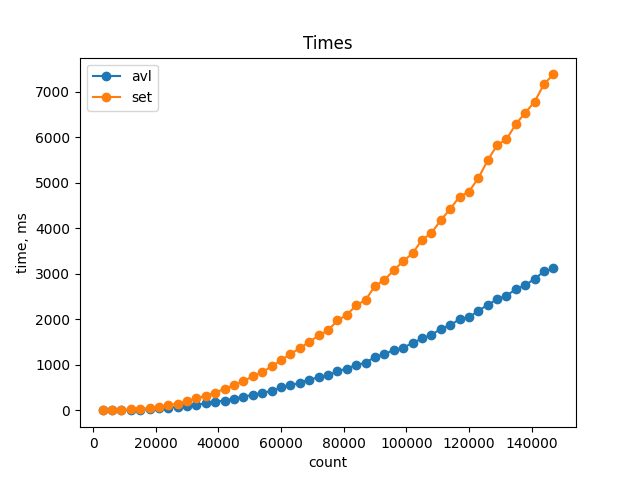
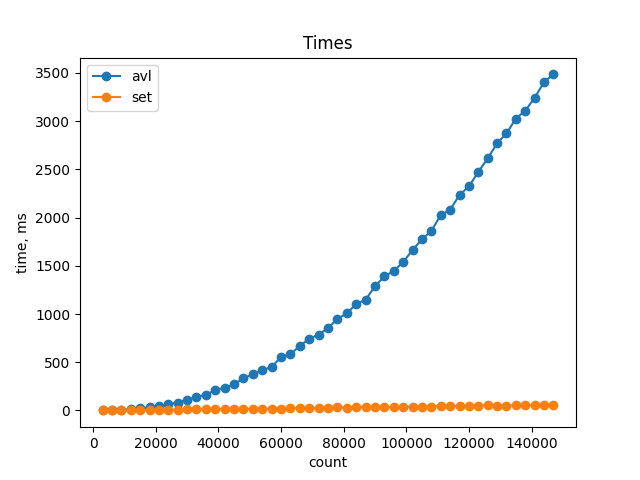
refactoring

diff --git a/include/tree.hpp b/include/tree.hpp
@@ -2,6 +2,7 @@
 #include <istream>
 #include <sstream>
 #include <typeinfo>
+#include <vector>
 
 #define CHECK_INPUT(var)                                                \
 if (!inp.good() && !inp.eof()) {                                        \
@@ -20,22 +21,22 @@ private:
         int height;
 
         Node(KeyT value) : key(value), left(nullptr), right(nullptr), height(1) {}
+
+        void updateHeight() {
+            int leftHeight = left ? left->height : 0;
+            int rightHeight = right ? right->height : 0;
+            height = 1 + std::max(leftHeight, rightHeight);
+        }
     };
 
     Node* root;
 
-    int height(Node* node) {
+    static int height(Node* node) { 
         return node ? node->height : 0;
     }
 
-    int balance(Node* node) {
+    static int balance(Node* node) {
         return node ? height(node->left) - height(node->right) : 0;
-    }
-
-    void updateHeight(Node* node) {
-        if (node) {
-            node->height = 1 + std::max(height(node->left), height(node->right));
-        }
     }
 
     Node* rightRotate(Node* y) {
@@ -45,8 +46,8 @@ private:
         x->right = y;
         y->left = T2;
 
-        updateHeight(y);
-        updateHeight(x);
+        y->updateHeight();
+        x->updateHeight();
 
         return x; 
     }
@@ -58,8 +59,8 @@ private:
         y->left = x;
         x->right = T2;
 
-        updateHeight(x);
-        updateHeight(y);
+        x->updateHeight();
+        y->updateHeight();
 
         return y; 
     }
@@ -76,7 +77,8 @@ private:
             return node;
         }
 
-        updateHeight(node);
+        // updateHeight(node);
+        node->updateHeight();
 
         int balanceFactor = balance(node);
 
@@ -101,10 +103,10 @@ private:
         return node;
     }
 
-    void inOrder(Node* node, std::ostream &out = std::cout) {
+    void inOrder(Node* node, std::vector<KeyT> &out) {
         if (node) {
             inOrder(node->left, out);
-            out << node->key << " ";
+            out.push_back(node->key);
             inOrder(node->right, out);
         }
     }
@@ -132,44 +134,48 @@ public:
         root = insert(root, key);
     }
 
-    void inOrder(std::ostream &out = std::cout) {
+    std::vector<KeyT> inOrder() {
+        std::vector<KeyT> out;
         inOrder(root, out);
+        return out;
     }
 
     int countInRange(KeyT lower, KeyT upper) const {
         return countInRange(root, lower, upper);
     }
+};
 
-    void run (std::istream &inp = std::cin, std::ostream &out = std::cout) {
+template <typename KeyT>
+void run (std::istream &inp = std::cin, std::ostream &out = std::cout) {
         
-        char command = 0;
-        while (inp >> command) {
-            CHECK_INPUT(command)
-            KeyT key, low, up;
+    AVLTree<KeyT> tree;
+    char command = 0;
+    while (inp >> command) {
+        CHECK_INPUT(command)
+        KeyT key, low, up;
 
-            switch(command) {
-                case 'k': 
-                    inp >> key;
-                    CHECK_INPUT(key)
-                    insert(key);
-                    break;
-                
-                case 'q': 
-                    inp >> low; inp >> up;
-                    CHECK_INPUT(low);
-                    if (low <= up)
-                        out << countInRange(low, up) << ' ';
-                    else 
-                        out << 0 << ' ';
-                    break;
-                
-                default:
-                    std::cerr << "Error input, need command: \"k\" or \"q\"\n";
-                    exit(-1);
-                    break;
-            }
+        switch(command) {
+            case 'k': 
+                inp >> key;
+                CHECK_INPUT(key)
+                tree.insert(key);
+                break;
+            
+            case 'q': 
+                inp >> low; inp >> up;
+                CHECK_INPUT(low);
+                if (low <= up)
+                    out << tree.countInRange(low, up) << ' ';
+                else 
+                    out << 0 << ' ';
+                break;
+            
+            default:
+                std::cerr << "Error input, need command: \"k\" or \"q\"\n";
+                exit(-1);
+                break;
         }
     }
-};
+}
 
 #undef CHECK_INPUT

diff --git a/compare/set_bench.cpp b/compare/set_bench.cpp
@@ -1,33 +1,45 @@
 #include <iostream>
 #include <set>
 #include "benchmark.hpp"
+#include <chrono>
+
+void run (std::istream &inp = std::cin);
 
 int main()
 {
-    using clock = std::chrono::high_resolution_clock;
-    std::set<int> set;
+    using clock = std::chrono::high_resolution_clock;    
+    auto time_start = clock::now();
     
-    auto time_start = clock::now().time_since_epoch().count();
-    char command;
-    while(std::cin >> command) {
-        int lower, upper, answer;
-        switch (command) {
-            case 'k':
-                std::cin >> lower;
-                set.insert(lower);
-                break;
+    run();
 
-            case 'q':
-                std::cin >> lower >> upper;
-                if (lower < upper)
-                    answer = distance(set.lower_bound(lower), set.upper_bound(upper));
-                NO_OPT(answer);
-                break;
-        }
-    }
-    auto time_end = clock::now().time_since_epoch().count();
-    long double time = (static_cast<long double>(time_end - time_start)) * NSEC_TO_SEC;
+    auto time_end = clock::now();
+    auto time = std::chrono::duration<long double>(time_end - time_start).count();
     std::cout << time << "\n";
 
     return 0;
+}
+
+void run (std::istream &inp) {
+        
+    std::set<int> set;
+    char command = 0;
+    while (inp >> command) {
+        int key, low, up;
+
+        switch(command) {
+            case 'k': 
+                inp >> key;
+                set.insert(key);
+                break;
+            
+            case 'q': 
+                inp >> low; inp >> up;
+                break;
+            
+            default:
+                std::cerr << "Error input, need command: \"k\" or \"q\"\n";
+                exit(-1);
+                break;
+        }
+    }
 }

diff --git a/compare/avl_bench.cpp b/compare/avl_bench.cpp
@@ -1,32 +1,20 @@
 #include <iostream>
 #include "tree.hpp"
 #include "benchmark.hpp"
+#include <chrono>
+#include <sstream>
 
 int main()
 {
     using clock = std::chrono::high_resolution_clock;
-    AVLTree<int> avl_tree;
     
-    auto time_start = clock::now().time_since_epoch().count();
-    char command;
-    while(std::cin >> command) {
-        int lower, upper, answer;
-        switch (command) {
-            case 'k':
-                std::cin >> lower;
-                avl_tree.insert(lower);
-                break;
+    std::stringstream st;
+    auto time_start = clock::now();
 
-            case 'q':
-                std::cin >> lower >> upper;
-                if (lower < upper)
-                    answer = avl_tree.countInRange(lower, upper);
-                NO_OPT(answer);
-                break;
-        }
-    }
-    auto time_end = clock::now().time_since_epoch().count();
-    long double time = (static_cast<long double>(time_end - time_start)) * NSEC_TO_SEC;
+    run<int>(std::cin, st);
+
+    auto time_end = clock::now();
+    auto time = std::chrono::duration<long double>(time_end - time_start).count();
     std::cout << time << "\n";
 
     return 0;

diff --git a/main.cpp b/main.cpp
@@ -12,9 +12,9 @@ int main () {
     testing::InitGoogleTest();
     auto r = RUN_ALL_TESTS();
 #else    
-    AVLTree<int> tree;
+    // AVLTree<int> tree;
 
-    tree.run();
+    run<int>();
     std::cout << std::endl;
 
     return 0;
@@ -26,11 +26,9 @@ int main () {
 #define GTEST(name, dat, ans)           \
 TEST(counting, name) {                  \
                                         \
-    AVLTree<int> tree;                  \
-                                        \
     std::stringstream inp(dat);         \
     std::stringstream res;              \
-    tree.run(inp, res);                 \
+    run<int>(inp, res);                 \
                                         \
     std::string answer(ans);            \
     ASSERT_TRUE(answer == res.str());   \
@@ -52,13 +50,10 @@ TEST(filling, test) {
     tree.insert(2);
     tree.insert(3);
     tree.insert(4);
-    tree.insert(5);
-    tree.insert(6);
 
-    std::stringstream ans;
-    tree.inOrder(ans);
+    auto ans = tree.inOrder();
 
-    ASSERT_TRUE("1 2 3 4 5 6 " == ans.str());
+    ASSERT_TRUE(ans[0] == 1 && ans[1] == 2 && ans[2] == 3 && ans[3] == 4);
 }
 
 #endif
